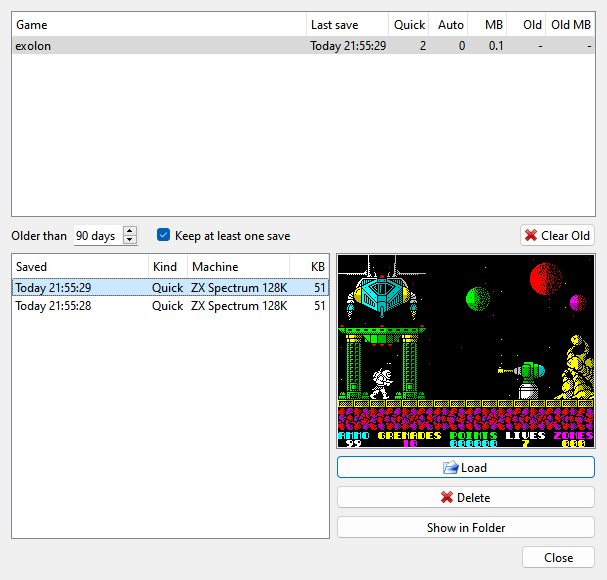
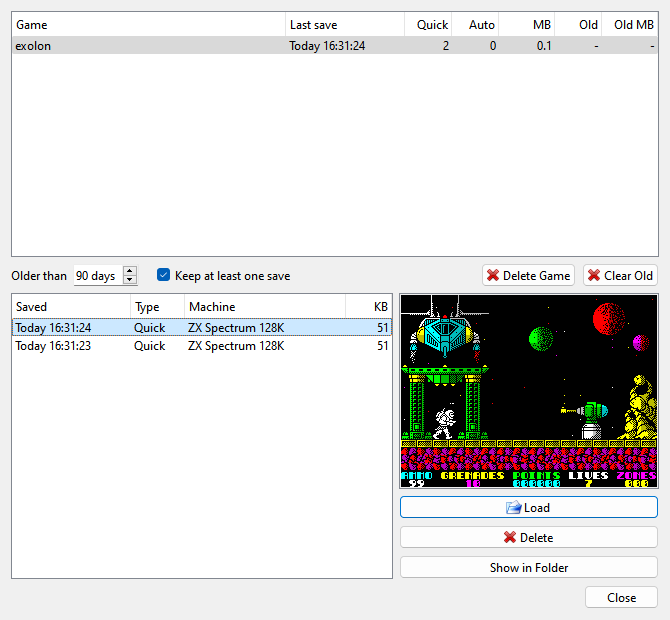
manual: saves follow the game that runs, exit saves in its folder, Save History deletes games

Changed region(s): [[0.0, 0.0, 1.0, 0.931], [0.86, 0.931, 0.9786, 0.9931]]

diff --git a/docs/manual/files.md b/docs/manual/files.md
@@ -244,12 +244,18 @@ and `.sna` snapshots too, through NextZXOS, from its SD card: see
 ```{index} Quick Save, Quick Load, Undo Quick Load, Quick Saves, snapshot; quick save
 ```
 
-**File > Quick Save** (F5) saves the machine as it is now into the folder of the game: the
-image you opened last into drive A, as a tape or as a snapshot. A disk in drive B does not
+**File > Quick Save** (F5) saves the machine as it is now into the folder of the game that
+runs: the image you opened last into drive A, as a tape or as a snapshot, or the tape or the
+disk in drive A that started since - a disk run from TR-DOS, say. A disk in drive B does not
 count. Each game keeps the last 20 quick saves; a new one past that number deletes the
 oldest. The game is known by its contents, so the same game opened from an archive, as a
 plain file or from another folder shares its saves. When no game is open, or the game's tape
 or disk has been taken out, the saves go to the folder of the machine instead.
+
+A reset, a hard reset or a switch to another machine ends the game: until a tape or a disk
+starts again, the saves go to the folder of the machine, and the window title names no image.
+The reset that starts an image you open is part of the start. Loading a save brings back the
+game it was taken in, so the quick saves after it go to that game's folder.
 
 **File > Quick Load** (F9) puts back the game's newest quick save, on the machine it was
 taken on. **File > Quick Saves** lists the game's saves, newest first, with the time each
@@ -277,9 +283,9 @@ When the program closes, it saves the machine. **File > Resume Last Session** pu
 back: the machine, the game and its media. To start where you left off every time, choose
 **Resume last session** in **Machine at start** on the [Application page](options-application.md).
 
-The autosave on exit goes into the game's folder when the game has one - that is, after its
-first quick save - and the folder keeps the last few of them. Otherwise there is one autosave,
-written over each time. The [Saves page](options-saves.md) of **Options** can also save
+The autosave on exit goes where a quick save would: into the folder of the game that runs, or
+of the machine after a reset. Each folder keeps the last few of them, and **Resume Last
+Session** loads the newest. The [Saves page](options-saves.md) of **Options** can also save
 every few minutes of play, and sets how many saves of each kind a game keeps.
 
 ### Save History
@@ -297,9 +303,12 @@ its newest save picked: Enter loads it.
 **Old** and **Old MB** columns show what it would delete. With **Keep at least one save** on,
 each game keeps its newest save however old it is.
 
-Click a game to see its saves below, with a picture of the selected one. **Load** loads it
-(a double click does too), **Delete** deletes the selected saves, and **Show in Folder**
-opens the game's folder. A game whose last save goes disappears from the list.
+Click a game to see its saves below - each with its type: **Quick**, **On exit** or
+**Auto** - and a picture of the selected one. **Load** loads it (a double click does too),
+**Delete** deletes the selected saves, and **Show in Folder** opens the game's folder.
+**Delete Game** deletes every save of the game picked, and its folder. The Delete key does
+the same in each list, and a right click offers it. Both ask first. A game whose last save
+goes disappears from the list.
 
 ## RZX recordings
 

diff --git a/docs/manual/options-saves.md b/docs/manual/options-saves.md
@@ -32,8 +32,8 @@ where the [quick saves](files.md#quick-saves) and autosaves go and how many of t
 
 - **Autosave on exit** - the machine is saved as the program closes, for
   **File > Resume Last Session**.
-- **Exit autosaves kept** - how many a game with quick saves keeps. A game with none has
-  one autosave, written over each time.
+- **Exit autosaves kept** - how many exit autosaves a folder keeps, the game's or the
+  machine's.
 - **Autosave every** - a save every so many minutes. Only the time the machine runs counts:
   a pause, a menu or the Debugger holds it. **Off** by default.
 - **Timed autosaves kept** - how many of those a game keeps, apart from the exit ones.

diff --git a/docs/manual/options-application.md b/docs/manual/options-application.md
@@ -30,8 +30,8 @@ starts with:
 - **The last one chosen** - the last machine you picked yourself. A machine that a file
   switched to does not count.
 - **Ask** - the **Start Machine** window asks every time.
-- **Resume last session** - the last one chosen, and then where you left off: the autosave
-  taken when the program closed (see [Autosaves](files.md#autosaves)).
+- **Resume last session** - the last one chosen, and then where you left off: the newest
+  autosave, taken when the program closed (see [Autosaves](files.md#autosaves)).
 - one of the machines - always that one.
 
 At the first start you are asked
